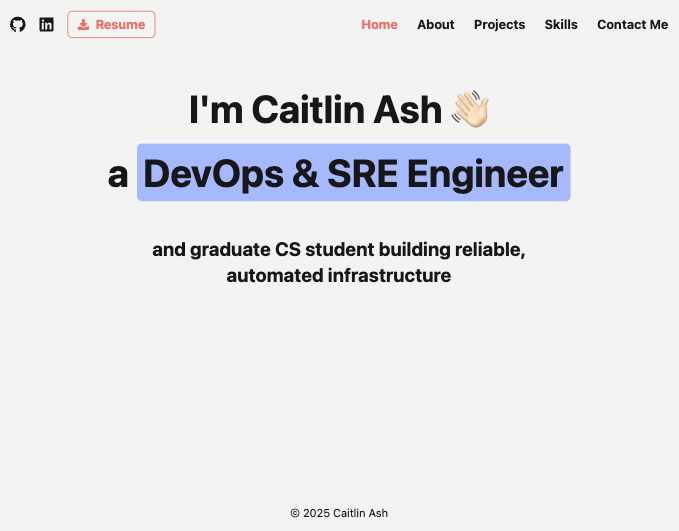
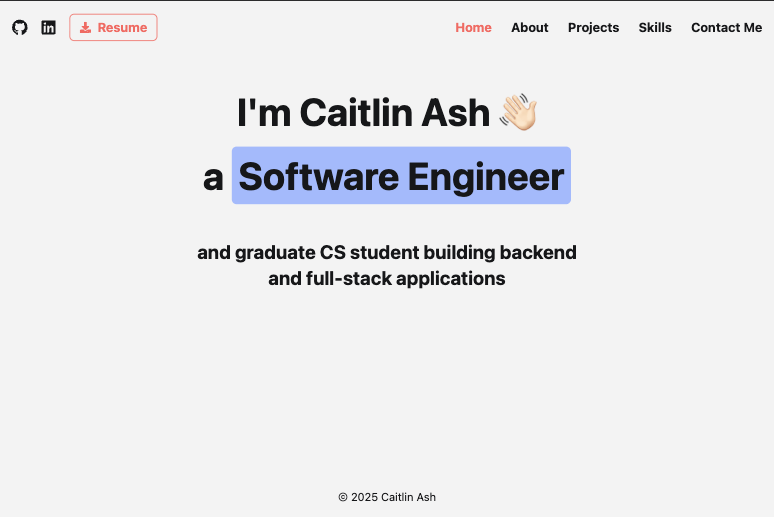
Update portfolio overview to reflect current role as Software Engineer; update README image

diff --git a/README.md b/README.md
@@ -1,7 +1,7 @@
 # Caitlin Ash | Portfolio
 
 ## Overview
-A modern, responsive portfolio website showcasing my journey as a DevOps and SRE Engineer and Computer Science master's student. Built with Next.js and TailwindCSS, featuring a terminal-style skills section and clean, professional design.
+A modern, responsive portfolio website showcasing my journey as a Software Engineer and Computer Science master's student. Built with Next.js and TailwindCSS, featuring a terminal-style skills section and clean, professional design.
 
 ## Table of Contents
   - [Overview](#overview)
